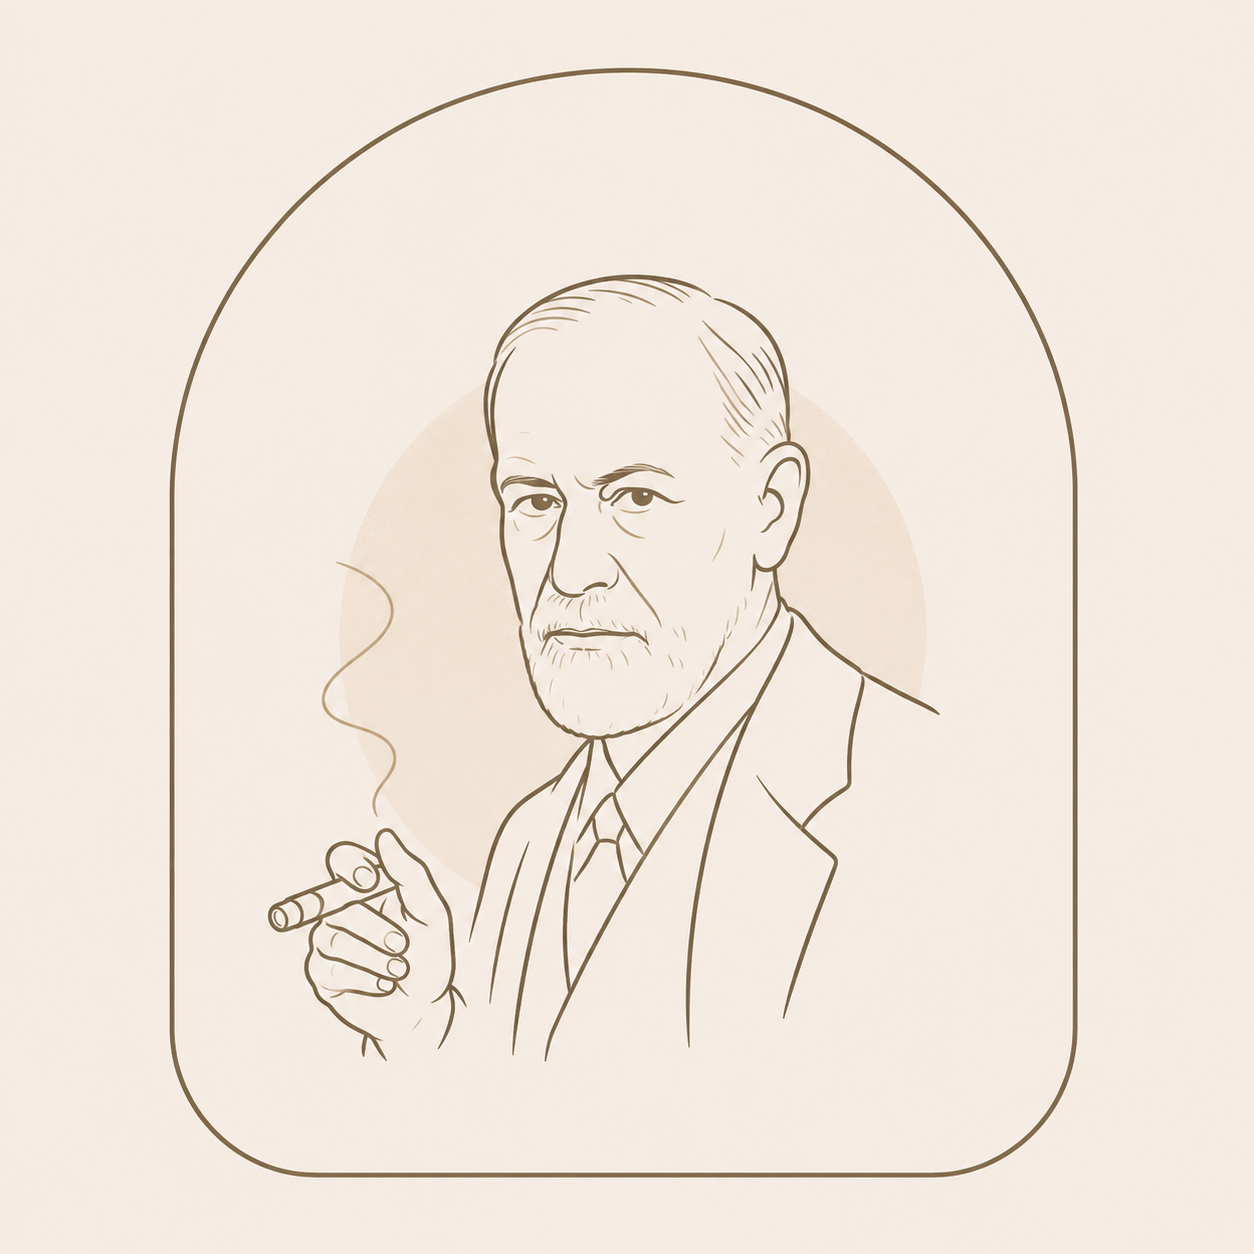
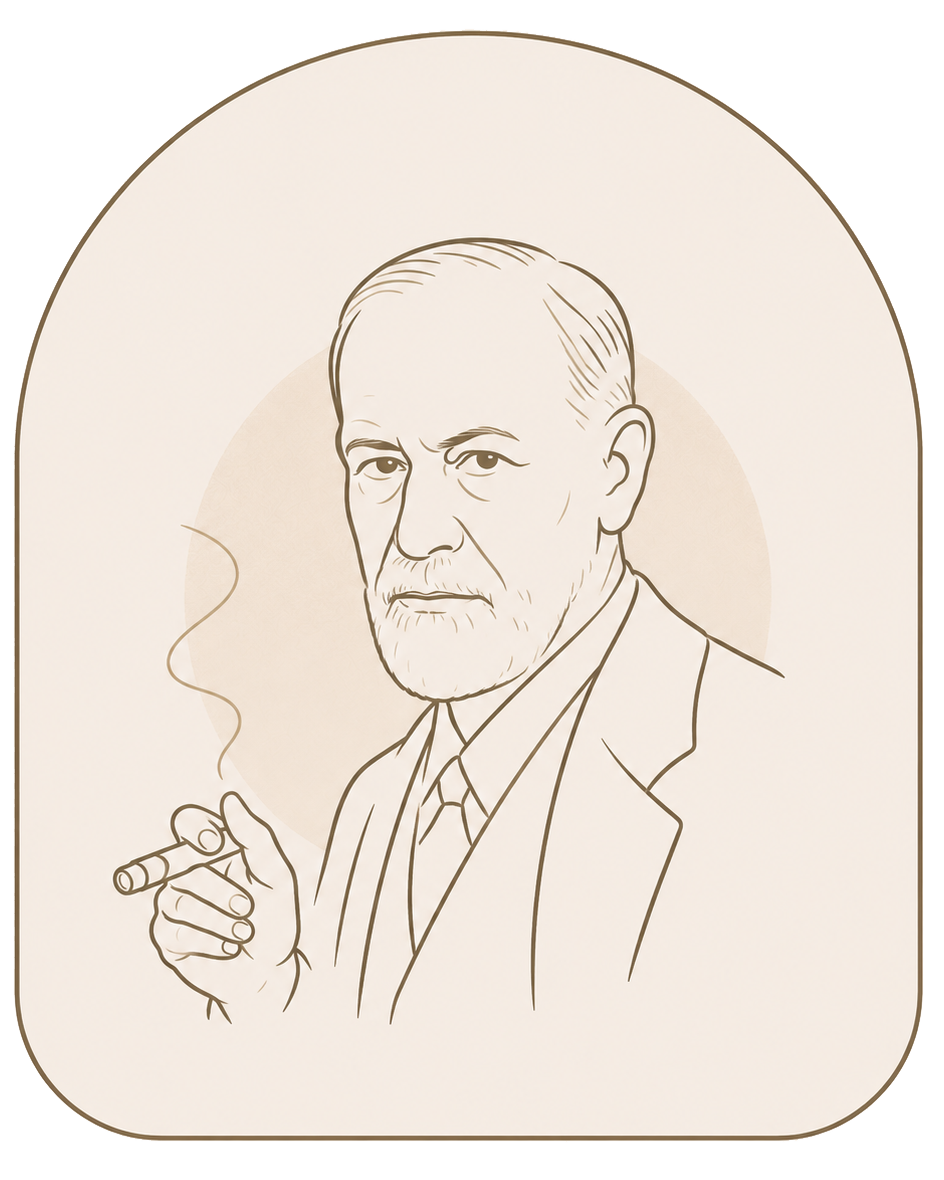
Compact mobile sections

diff --git a/styles.css b/styles.css
@@ -1517,17 +1517,17 @@ p {
 
   .section {
     width: min(100% - 28px, var(--max));
-    padding: 42px 0;
+    padding: 32px 0;
   }
 
   .section-heading {
     gap: 10px;
-    margin-bottom: 28px;
+    margin-bottom: 22px;
   }
 
   .ambient-quotes {
     display: block;
-    color: rgba(138, 90, 68, 0.075);
+    color: rgba(138, 90, 68, 0.105);
     font-size: clamp(34px, 13vw, 58px);
     line-height: 0.98;
   }
@@ -1536,8 +1536,8 @@ p {
     top: 24vh;
     left: -132px;
     width: 330px;
-    opacity: calc(0.12 + (var(--portrait-progress, 0) * 0.52));
-    filter: blur(calc(6px - (var(--portrait-progress, 0) * 5px)));
+    opacity: calc(0.18 + (var(--portrait-progress, 0) * 0.58));
+    filter: blur(calc(4px - (var(--portrait-progress, 0) * 3px)));
   }
 
   .ambient-quotes span,
@@ -1595,15 +1595,19 @@ p {
   }
 
   .work-grid,
-  .approach-grid,
   .price-grid,
   .quiz-options,
   .quotes-grid,
   .confidentiality-grid,
-  .education-list,
+  .education-list {
+    grid-template-columns: 1fr;
+  }
+
+  .approach-grid,
   .meeting-facts,
   .timeline {
-    grid-template-columns: 1fr;
+    grid-template-columns: repeat(2, minmax(0, 1fr));
+    gap: 10px;
   }
 
   .value-grid {
@@ -1633,27 +1637,28 @@ p {
   }
 
   .stat-card {
-    min-height: 178px;
-    padding: 20px 16px;
+    min-height: 146px;
+    padding: 16px 14px;
     gap: 12px;
   }
 
   .stat-icon {
-    width: 46px;
-    height: 46px;
+    width: 38px;
+    height: 38px;
+    margin-bottom: 12px;
   }
 
   .stat-value {
-    font-size: clamp(42px, 15vw, 58px);
+    font-size: clamp(36px, 13vw, 52px);
   }
 
   .stat-label {
-    font-size: 15px;
+    font-size: 13px;
     line-height: 1.15;
   }
 
   .stat-card p {
-    font-size: 14px;
+    font-size: 12px;
     line-height: 1.3;
   }
 
@@ -1693,22 +1698,175 @@ p {
     grid-template-columns: 1fr;
   }
 
-  .timeline-item {
-    min-height: auto;
-    border-right: 0;
-    border-bottom: 1px solid var(--line);
+  .approach {
+    padding-top: 26px;
+    padding-bottom: 26px;
   }
 
-  .timeline-item:last-child {
-    border-bottom: 0;
+  .approach .section-heading,
+  .process .section-heading,
+  .price .section-heading {
+    margin-bottom: 16px;
+  }
+
+  .approach h2,
+  .process h2,
+  .price h2 {
+    font-size: clamp(34px, 10vw, 48px);
+    line-height: 1;
+  }
+
+  .approach-card {
+    min-height: 154px;
+    padding: 15px;
+    gap: 12px;
+  }
+
+  .approach-card h3 {
+    font-size: 17px;
+    line-height: 1.14;
+  }
+
+  .approach-card p {
+    font-size: 12px;
+    line-height: 1.34;
+  }
+
+  .process {
+    padding-top: 26px;
+    padding-bottom: 26px;
+  }
+
+  .timeline {
+    border: 0;
+  }
+
+  .timeline-item {
+    min-height: 136px;
+    padding: 15px;
+    border: 1px solid var(--line);
+    border-radius: var(--radius);
+    background: rgba(250, 248, 244, 0.68);
+  }
+
+  .timeline-item h3 {
+    margin-top: 12px;
+    font-size: 17px;
+    line-height: 1.14;
+  }
+
+  .timeline-item p {
+    margin-top: 8px;
+    font-size: 12px;
+    line-height: 1.34;
+  }
+
+  .meeting-facts {
+    margin-top: 8px;
+  }
+
+  .meeting-facts article {
+    min-height: 96px;
+    padding: 13px;
+  }
+
+  .meeting-facts span {
+    font-size: 10px;
+  }
+
+  .meeting-facts strong {
+    margin-top: 8px;
+    font-size: 12px;
+    line-height: 1.28;
+  }
+
+  .price {
+    padding-top: 26px;
+    padding-bottom: 26px;
+  }
+
+  .price-grid {
+    gap: 10px;
   }
 
   .price-card {
-    min-height: 360px;
+    min-height: auto;
+    padding: 16px;
+  }
+
+  .price-card h3 {
+    margin-top: 12px;
+    font-size: 22px;
+    line-height: 1.08;
+  }
+
+  .price-card p {
+    margin-top: 8px;
+    font-size: 13px;
+    line-height: 1.36;
+  }
+
+  .price-card strong {
+    padding-top: 12px;
+    font-size: 44px;
+  }
+
+  .price-card .text-link {
+    margin-top: 12px;
   }
 
   .quote-band blockquote {
     font-size: clamp(46px, 14vw, 68px);
+  }
+
+  .about {
+    padding-top: 26px;
+    padding-bottom: 26px;
+    gap: 18px;
+  }
+
+  .about-image {
+    min-height: 240px;
+    height: 34vh;
+  }
+
+  .education-panel {
+    gap: 10px;
+    margin-top: 0;
+    padding: 14px;
+  }
+
+  .education-panel .eyebrow {
+    margin-bottom: 4px;
+  }
+
+  .education-panel h3 {
+    font-size: 21px;
+  }
+
+  .education-list {
+    grid-template-columns: repeat(2, minmax(0, 1fr));
+    gap: 8px;
+  }
+
+  .education-list article {
+    min-height: 98px;
+    padding: 10px;
+  }
+
+  .education-list strong {
+    font-size: 12px;
+    line-height: 1.22;
+  }
+
+  .education-list p {
+    margin-top: 5px;
+    font-size: 11px;
+    line-height: 1.28;
+  }
+
+  .education-panel .text-link {
+    margin-top: 8px;
   }
 
   .confidentiality {

diff --git a/index.html b/index.html
@@ -18,7 +18,7 @@
     <link rel="preconnect" href="https://fonts.gstatic.com" crossorigin>
     <link href="https://fonts.googleapis.com/css2?family=Cormorant+Garamond:wght@500;600;700&family=Manrope:wght@400;500;600;700;800&display=swap" rel="stylesheet">
     <link rel="preload" href="assets/images/sergey-hero.webp" as="image" fetchpriority="high">
-    <link rel="stylesheet" href="styles.css?v=[phone redacted]-mobile-form">
+    <link rel="stylesheet" href="styles.css?v=[phone redacted]-mobile-compact-3">
     <script type="application/ld+json">
       {
         "@context": "https://schema.org",
@@ -344,7 +344,7 @@
       </div>
     </footer>
 
-    <script src="content.js?v=[phone redacted]-mobile-form"></script>
-    <script src="app.js?v=[phone redacted]-mobile-form"></script>
+    <script src="content.js?v=[phone redacted]-mobile-compact-3"></script>
+    <script src="app.js?v=[phone redacted]-mobile-compact-3"></script>
   </body>
 </html>